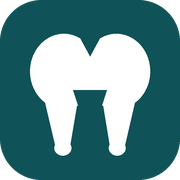
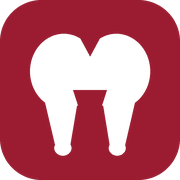
Kolory jak dobry-dentysta-legnica.pages.dev: bordo, grafit, jasna szarosc
Motyw jasny: bordo #9b1c31 jako kolor marki (linki, przyciski), grafit
#15181c na pasku gornym, w stopce i na ciemnych pasmach, tlo strony
#f6f7f8 z bialymi kartami. Motyw ciemny i przelacznik zostaja: tla
grafitowe, bordo rozjasnione do #f08a9b (tekst i przyciski) i #e06a7e
(ikony, fokus). Wszystkie pary tekst/tlo >= 4.5:1, ikony >= 3:1.
Logo, favicon, ikona iOS i theme-color w tym samym kolorze.

diff --git a/themes/v1-klasyczna/assets/css/style.css b/themes/v1-klasyczna/assets/css/style.css
@@ -13,20 +13,21 @@
 /* --------------------------------------------------------------- 1. Tokeny */
 
 :root {
-  /* marka - petrol/teal, kolor zaufania w ochronie zdrowia */
-  --brand-900: #06282b;
-  --brand-800: #0b3f43;
-  --brand-700: #0f5257;
-  --brand-600: #157078;
-  --brand-500: #1c8c94;
-  --brand-200: #a9d7d9;
-  --brand-100: #dceff0;
-  --brand-50:  #f2f9f9;
+  /* marka - bordo (jak dobry-dentysta-legnica.pages.dev); --brand-900 to grafit
+     ciemnych pasow: pasek gorny, stopka */
+  --brand-900: #15181c;
+  --brand-800: #6a1222;
+  --brand-700: #9b1c31;
+  --brand-600: #b0283e;
+  --brand-500: #c4475b;
+  --brand-200: #e8bcc4;
+  --brand-100: #f5e9eb;
+  --brand-50:  #fbf4f5;
 
-  /* akcent - terakota, uzywana oszczednie: odznaki, wyroznienia */
-  --accent-700: #8f3f17;
-  --accent-600: #b4531f;
-  --accent-100: #fbeade;
+  /* akcent - grafit: drugi przycisk, odznaki */
+  --accent-700: #14171a;
+  --accent-600: #15181c;
+  --accent-100: #e3e6e9;
 
   /* semantyka */
   --ok-700: #1f6b3f;
@@ -35,21 +36,21 @@
   --warn-100: #fdf1d8;
 
   /* neutralne */
-  --ink:       #10211f;
-  --ink-soft:  #35474a;
-  --muted:     #5b6e70;
-  --line:      #dde6e6;
-  --line-soft: #eaf1f1;
+  --ink:       #14171a;
+  --ink-soft:  #474d55;
+  --muted:     #5f656d;
+  --line:      #dadde1;
+  --line-soft: #e7e9ec;
   --bg:        #ffffff;
-  --surface:   #f7fafa;
-  --surface-2: #eef5f5;
+  --surface:   #edeff1;
+  --surface-2: #e3e6e9;
 
   /* role */
-  --page-bg: var(--bg);
+  --page-bg: #f6f7f8;
   --card-bg: var(--bg);
-  --shadow-sm: 0 1px 2px rgb(6 40 43 / 6%), 0 1px 3px rgb(6 40 43 / 6%);
-  --shadow-md: 0 4px 10px rgb(6 40 43 / 7%), 0 12px 28px rgb(6 40 43 / 7%);
-  --shadow-lg: 0 10px 20px rgb(6 40 43 / 9%), 0 28px 60px rgb(6 40 43 / 10%);
+  --shadow-sm: 0 1px 2px rgb(20 23 26 / 5%), 0 1px 3px rgb(20 23 26 / 5%);
+  --shadow-md: 0 1px 2px rgb(20 23 26 / 4%), 0 10px 28px -14px rgb(20 23 26 / 16%);
+  --shadow-lg: 0 2px 6px rgb(20 23 26 / 4%), 0 28px 56px -24px rgb(20 23 26 / 26%);
 
   /* typografia - wylacznie czcionki systemowe: 0 zapytan, 0 B transferu,
      a kazda z nich ma komplet polskich znakow diakrytycznych */
@@ -87,7 +88,7 @@
 
 /* Kolor pisma na przycisku WYPELNIONYM. W motywie jasnym tlo przycisku
    (--brand-700) jest ciemne, wiec napis jest bialy. W ciemnym ten sam token
-   staje sie jasnym cyjanem - bo tam sluzy za kolor pisma na ciemnym tle -
+   staje sie jasnym rozem - bo tam sluzy za kolor pisma na ciemnym tle -
    wiec napis musi sciemniec. Bez tego bialy napis na jasnym cyjanie daje
    1,72:1 przy wymaganych 4,5:1. */
 :root {
@@ -98,10 +99,10 @@
      w motywie ciemnym rozjasniaja sie, bo sluza tam za kolor PISMA na
      ciemnym tle - uzyte jako TLO pasma dawaly biel na jasnym. Te cztery
      tokeny celowo nie sa przedefiniowane nizej. */
-  --pasmo-1: #0b3f43;
-  --pasmo-2: #157078;
-  --na-pasmie: #ffffff;
-  --na-pasmie-cichy: #dbeced;
+  --pasmo-1: #15181c;
+  --pasmo-2: #22262b;
+  --na-pasmie: #f2f3f4;
+  --na-pasmie-cichy: #b8bec5;
 }
 
 /* Motyw ciemny. Domyslna preferencja systemu + jawny wybor przelacznikiem.
@@ -109,18 +110,18 @@
    wewnatrz tego bloku. */
 @media (prefers-color-scheme: dark) {
   :root:not([data-theme="light"]) {
-    --ink:       #e8f1f1;
-    --ink-soft:  #c0d2d2;
-    --muted:     #9bb0b1;
-    --line:      #22393b;
-    --line-soft: #1a2d2f;
-    --bg:        #0a1a1c;
-    --surface:   #0f2325;
-    --surface-2: #142c2f;
-    --brand-100: #123b3e;
-    --brand-200: #1d5a5e;
-    --brand-50:  #0f2325;
-    --accent-100: #3a2114;
+    --ink:       #f2f3f4;
+    --ink-soft:  #c9cdd2;
+    --muted:     #9ea4ac;
+    --line:      #2b3036;
+    --line-soft: #202429;
+    --bg:        #111316;
+    --surface:   #181b1f;
+    --surface-2: #1f2328;
+    --brand-100: #3a1a22;
+    --brand-200: #5c2633;
+    --brand-50:  #1e1619;
+    --accent-100: #2a2e34;
     --ok-100:    #12301f;
     --warn-100:  #332714;
     --page-bg:   var(--bg);
@@ -133,18 +134,18 @@
 }
 
 :root[data-theme="dark"] {
-  --ink:       #e8f1f1;
-  --ink-soft:  #c0d2d2;
-  --muted:     #9bb0b1;
-  --line:      #22393b;
-  --line-soft: #1a2d2f;
-  --bg:        #0a1a1c;
-  --surface:   #0f2325;
-  --surface-2: #142c2f;
-  --brand-100: #123b3e;
-  --brand-200: #1d5a5e;
-  --brand-50:  #0f2325;
-  --accent-100: #3a2114;
+  --ink:       #f2f3f4;
+  --ink-soft:  #c9cdd2;
+  --muted:     #9ea4ac;
+  --line:      #2b3036;
+  --line-soft: #202429;
+  --bg:        #111316;
+  --surface:   #181b1f;
+  --surface-2: #1f2328;
+  --brand-100: #3a1a22;
+  --brand-200: #5c2633;
+  --brand-50:  #1e1619;
+  --accent-100: #2a2e34;
   --ok-100:    #12301f;
   --warn-100:  #332714;
   --page-bg:   var(--bg);
@@ -155,25 +156,27 @@
   color-scheme: dark;
 }
 
-/* W motywie ciemnym teksty markowe musza sie rozjasnic, inaczej petrol
+/* W motywie ciemnym teksty markowe musza sie rozjasnic, inaczej bordo
    na prawie czarnym tle schodzi ponizej kontrastu 4.5:1 */
 @media (prefers-color-scheme: dark) {
   :root:not([data-theme="light"]) {
-    --brand-700: #7fd3d8;
-    --brand-800: #a6e3e6;
-    --accent-600: #e59a68;
-    --accent-700: #f0b48a;
+    --brand-700: #f08a9b;
+    --brand-800: #f7b7c1;
+    --brand-600: #e06a7e;
+    --accent-600: #e6e8eb;
+    --accent-700: #f2f3f4;
     --ok-700: #86d8a4;
-    --btn-fill-fg: #0a1a1c;
+    --btn-fill-fg: #111316;
   }
 }
 :root[data-theme="dark"] {
-  --brand-700: #7fd3d8;
-  --brand-800: #a6e3e6;
-  --accent-600: #e59a68;
-  --accent-700: #f0b48a;
+  --brand-700: #f08a9b;
+  --brand-800: #f7b7c1;
+  --brand-600: #e06a7e;
+  --accent-600: #e6e8eb;
+  --accent-700: #f2f3f4;
   --ok-700: #86d8a4;
-  --btn-fill-fg: #0a1a1c;
+  --btn-fill-fg: #111316;
 }
 
 /* ------------------------------------------------------------- 2. Podstawa */
@@ -247,7 +250,7 @@ hr {
 }
 :where(a, button, input, select, textarea, summary):focus:not(:focus-visible) { outline: none; }
 
-::selection { background: var(--brand-200); color: var(--brand-900); }
+::selection { background: var(--brand-200); color: var(--ink); }
 
 @media (prefers-reduced-motion: reduce) {
   html { scroll-behavior: auto; }
@@ -383,7 +386,7 @@ hr {
 
 .topbar {
   background: var(--brand-900);
-  color: #cfe6e7;
+  color: #d4d8dd;
   font-size: var(--step--1);
 }
 .topbar__inner {
@@ -573,7 +576,7 @@ hr {
 }
 .drawer[data-open="true"] { visibility: visible; }
 .drawer__scrim {
-  background: rgb(6 40 43 / 45%);
+  background: rgb(20 23 26 / 45%);
   opacity: 0;
   transition: opacity .25s var(--ease);
   border: 0;
@@ -1065,7 +1068,7 @@ dialog.lightbox {
   color: var(--ink);
   overflow: hidden;
 }
-dialog.lightbox::backdrop { background: rgb(6 40 43 / 80%); backdrop-filter: blur(3px); }
+dialog.lightbox::backdrop { background: rgb(20 23 26 / 80%); backdrop-filter: blur(3px); }
 .lightbox__fig { margin: 0; display: grid; }
 .lightbox__fig img { width: 100%; max-height: 78vh; object-fit: contain; background: #000; }
 .lightbox__fig figcaption {
@@ -1085,7 +1088,7 @@ dialog.lightbox::backdrop { background: rgb(6 40 43 / 80%); backdrop-filter: blu
   width: 2.8rem; height: 2.8rem;
   border: 0;
   border-radius: 50%;
-  background: rgb(6 40 43 / 72%);
+  background: rgb(20 23 26 / 72%);
   color: #fff;
   cursor: pointer;
 }
@@ -1164,8 +1167,8 @@ dialog.lightbox::backdrop { background: rgb(6 40 43 / 80%); backdrop-filter: blu
 }
 .field textarea { min-height: 8rem; resize: vertical; }
 .field input:focus, .field select:focus, .field textarea:focus { border-color: var(--brand-600); }
-.field input:user-invalid, .field textarea:user-invalid { border-color: var(--accent-600); }
-.req { color: var(--accent-600); }
+.field input:user-invalid, .field textarea:user-invalid { border-color: var(--brand-700); }
+.req { color: var(--brand-700); }
 
 .consent {
   display: grid;
@@ -1199,17 +1202,17 @@ dialog.lightbox::backdrop { background: rgb(6 40 43 / 80%); backdrop-filter: blu
    minmax(0, 1fr) pilnuje, by kolumna tekstu nie liczyla min-content. */
 @media (width >= 62rem) { .cta-band { grid-template-columns: minmax(0, 1fr) auto; } }
 .cta-band h2 { margin: 0 0 var(--sp-2); color: #fff; font-size: var(--step-3); }
-.cta-band p { margin: 0; color: #cfe6e7; max-width: 50ch; }
+.cta-band p { margin: 0; color: var(--na-pasmie-cichy); max-width: 50ch; }
 
 .site-footer {
   margin-top: var(--sp-8);
   padding-block: var(--sp-7) var(--sp-5);
   background: var(--brand-900);
-  color: #b9d3d5;
+  color: #bfc4ca;
   font-size: .95rem;
 }
 .site-footer h2, .site-footer h3 { color: #fff; font-size: var(--step-0); margin: 0 0 var(--sp-3); }
-.site-footer a { color: #e3f1f2; text-decoration: none; }
+.site-footer a { color: #f2f3f4; text-decoration: none; }
 .site-footer a:hover { color: #fff; text-decoration: underline; }
 /* Dolny wiersz stopki: copyright i odnosniki prawne. Same odnosniki
    musza miec 44 px celu dotykowego, choc tekst jest drobny. */
@@ -1231,10 +1234,10 @@ dialog.lightbox::backdrop { background: rgb(6 40 43 / 80%); backdrop-filter: blu
   gap: var(--sp-2) var(--sp-5);
   justify-content: space-between;
   font-size: .85rem;
-  color: #8fb0b2;
+  color: #9ea4ac;
 }
-.footer__reg { font-size: .82rem; line-height: 1.7; color: #8fb0b2; }
-.footer__reg b { color: #cfe6e7; font-weight: 620; }
+.footer__reg { font-size: .82rem; line-height: 1.7; color: #9ea4ac; }
+.footer__reg b { color: #d4d8dd; font-weight: 620; }
 
 /* ------------------------------------------- 17. Mobilny pasek kontaktowy */
 
@@ -1256,7 +1259,7 @@ dialog.lightbox::backdrop { background: rgb(6 40 43 / 80%); backdrop-filter: blu
   background: color-mix(in srgb, var(--bg) 92%, transparent);
   backdrop-filter: blur(12px);
   border-top: 1px solid var(--line);
-  box-shadow: 0 -4px 20px rgb(6 40 43 / 8%);
+  box-shadow: 0 -4px 20px rgb(20 23 26 / 8%);
 }
 /* Wezsze marginesy wewnetrzne niz w zwyklym przycisku: tu szerokosc kolumny
    wyznacza siatka, a padding decyduje tylko o tym, czy etykieta sie zmiesci. */

diff --git a/themes/v1-klasyczna/layouts/partials/naglowek.html b/themes/v1-klasyczna/layouts/partials/naglowek.html
@@ -39,7 +39,7 @@
   <div class="container site-header__inner">
     <a class="brand" href="{{ site.Home.RelPermalink }}">
       <svg class="brand__mark" viewBox="0 0 48 48" aria-hidden="true">
-        <rect width="48" height="48" rx="13" fill="#0f5257"/>
+        <rect width="48" height="48" rx="13" fill="#9b1c31"/>
         <path d="M24 13.5c-2.6-2-5.5-3.1-8-2.4-3.7 1-5.8 4.7-5.3 9.2.3 2.7 1.3 4.8 2.1 7.4.8 2.7 1 5.5 1.5 8 .3 1.9 1.3 3.2 2.7 3.2 1.8 0 2.4-1.8 2.9-4l1.1-5.3c.3-1.5 1-2.3 3-2.3s2.7.8 3 2.3l1.1 5.3c.5 2.2 1.1 4 2.9 4 1.4 0 2.4-1.3 2.7-3.2.5-2.5.7-5.3 1.5-8 .8-2.6 1.8-4.7 2.1-7.4.5-4.5-1.6-8.2-5.3-9.2-2.5-.7-5.4.4-8 2.4Z" fill="#fff"/>
       </svg>
       <span class="brand__text">

diff --git a/themes/v1-klasyczna/layouts/partials/head.html b/themes/v1-klasyczna/layouts/partials/head.html
@@ -32,8 +32,8 @@
 {{- with $g.lekarz }}
 <meta name="author" content="{{ . }}">
 {{- end }}
-<meta name="theme-color" content="#0f5257" media="(prefers-color-scheme: light)">
-<meta name="theme-color" content="#0a1a1c" media="(prefers-color-scheme: dark)">
+<meta name="theme-color" content="#f6f7f8" media="(prefers-color-scheme: light)">
+<meta name="theme-color" content="#111316" media="(prefers-color-scheme: dark)">
 {{- with $g.adres.miasto }}
 <meta name="geo.placename" content="{{ . }}">
 {{- end }}
